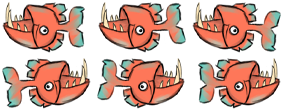
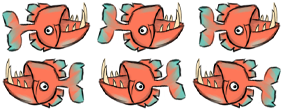
- Finished monster animations

diff --git a/Game-Jam/BoxML.cpp b/Game-Jam/BoxML.cpp
@@ -80,10 +80,10 @@ void BoxML::CreateWorld(void)
 	bfMonster* monster = CreateMonster(b2_dynamicBody, pixelToMeter({ PLAYGROUND_MARGIN_LEFT + 600, PLAYGROUND_MARGIN_TOP + 50 }), { 108, 76 }, 0.01f, 0.3f, 1);
 	monster->setMovePattern(Monster_MovePattern::Down);
 
-	monster = CreateMonster(b2_dynamicBody, pixelToMeter({ PLAYGROUND_MARGIN_LEFT + 600, PLAYGROUND_MARGIN_TOP + 50 }), { 83, 87 }, 0.01f, 0.3f, 2);
+	monster = CreateMonster(b2_dynamicBody, pixelToMeter({ PLAYGROUND_MARGIN_LEFT + 200, PLAYGROUND_MARGIN_TOP + 400 }), { 83, 87 }, 0.01f, 0.3f, 2);
 	monster->setMovePattern(Monster_MovePattern::Down);
 
-	monster = CreateMonster(b2_dynamicBody, pixelToMeter({ PLAYGROUND_MARGIN_LEFT + 600, PLAYGROUND_MARGIN_TOP + 50 }), { 94, 56 }, 0.01f, 0.3f, 3);
+	monster = CreateMonster(b2_dynamicBody, pixelToMeter({ (float)_screenWidth - 600, PLAYGROUND_MARGIN_TOP + 50}), {94, 56}, 0.01f, 0.3f, 3);
 	monster->setMovePattern(Monster_MovePattern::Right);
 }
 
@@ -304,7 +304,7 @@ bfMonster* BoxML::CreateMonster(const b2BodyType bodyType, const b2Vec2 position
 		break;
 
 	case 2:
-		bfObj->loadSpriteSheet("Assets/monsters/2.png", size.x, size.y, 0, 0, 3, 3, _timer.getElapsedTime().asSeconds(), 0.17);
+		bfObj->loadSpriteSheet("Assets/monsters/2.png", size.x, size.y, 0, 0, 3, 3, _timer.getElapsedTime().asSeconds(), 0.15);
 		break;
 
 	case 3:
@@ -410,9 +410,11 @@ void BoxML::Render(sf::RenderWindow& mainWnd)
 		if (!obj) continue;
 		obj->setSfPosition(meterToPixel(obj->getB2Position()));
 
-		// Sync rotation using helper
-		if (obj->Body())
+		// Sync rotation for player using helper
+		if (_player && _player->Body() == obj->Body())
+		{
 			ApplyRotation(obj, obj->Body()->GetAngle());
+		}
 
 		mainWnd.draw(*obj->Drawable());
 	}

diff --git a/Game-Jam/bfMonster.cpp b/Game-Jam/bfMonster.cpp
@@ -36,9 +36,13 @@ void bfMonster::updateAnimation(float curTime)
 
 	int frameStartIdx = 0;
 	int frameCount = 1;
-	int frameDuration = 1;
 
-	WalkDirection dir = getWalkDirection(velocity);
+	WalkDirection dir;
+
+	if (_movePattern == Monster_MovePattern::Up || _movePattern == Monster_MovePattern::Down)
+		dir = getVerticalWalkDirection(velocity);
+	else
+		dir = getHorizontalWalkDirection(velocity);
 
 	switch (dir)
 	{
@@ -51,9 +55,19 @@ void bfMonster::updateAnimation(float curTime)
 		frameStartIdx = 3;
 		frameCount = 3;
 		break;
+
+	default:
+	{
+		frameStartIdx = 0;
+		frameCount = 3;
+		break;
+	}
 	}
 
-	updateSpriteSheet(frameStartIdx, frameCount, curTime, frameDuration);
+	if (_frameStartIdx == frameStartIdx && _numFrames == frameCount)
+		return;
+
+	updateSpriteSheet(frameStartIdx, frameCount, curTime, _frameDuration);
 }
 
 Monster_MovePattern bfMonster::getMovementPattern(void) const

diff --git a/Game-Jam/bfCharacter.cpp b/Game-Jam/bfCharacter.cpp
@@ -284,3 +284,17 @@ WalkDirection bfCharacter::getWalkDirection(b2Vec2 velocity)
 
     return WalkDirection::Up;
 }
+
+WalkDirection bfCharacter::getVerticalWalkDirection(b2Vec2 velocity)
+{
+    if (velocity.y > 0)
+        return WalkDirection::Down;
+    return WalkDirection::Up;
+}
+
+WalkDirection bfCharacter::getHorizontalWalkDirection(b2Vec2 velocity)
+{
+    if (velocity.x > 0)
+        return WalkDirection::Left;
+    return WalkDirection::Right;
+}

diff --git a/Game-Jam/bfCharacter.h b/Game-Jam/bfCharacter.h
@@ -60,4 +60,6 @@ public:
 	float getBoostMultiplier() const;
 
 	static WalkDirection getWalkDirection(b2Vec2 velocity);
+	static WalkDirection getVerticalWalkDirection(b2Vec2 velocity);
+	static WalkDirection getHorizontalWalkDirection(b2Vec2 velocity);
 };
